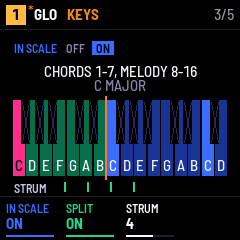
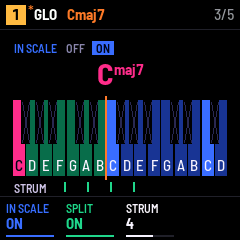
KEYS SPLIT: the chord held named in the header and big on GLO KEYS (Fm7, Csus2, C/E)

Changed region(s): [[0.3792, 0.2625, 0.8458, 0.3792], [0.175, 0.2625, 0.3792, 0.3208], [0.2625, 0.0292, 0.4375, 0.1167]]

diff --git a/app/ui.c b/app/ui.c
@@ -152,6 +152,10 @@ static const char *const SRC_NAME[SRC_N] = {"STEP", "ATLAS", "FLEET", "COLONY", 
 static const char *const T_MODE_NAME[7] = {"C.BERN", "CLUSTERS", "DRUMS", "I.BERN", "DIVIDER", "3 STATES", "MARKOV"};
 static const char *const PATH_NAME[PATH_N] = {"FWD", "REV", "PING-PONG", "SNAKE", "COLUMNS", "SPIRAL", "RANDOM", "XY"};
 static const char *const TONIC_NAME[12] = {"C", "C#", "D", "D#", "E", "F", "F#", "G", "G#", "A", "A#", "B"};
+/* KEYS SPLIT's chord qualities, gen.h CQ_* (after the root's name) */
+static const char *const CHORD_SUFFIX[CQ_N] = {"", "m", "dim", "+", "sus2", "sus4", "7", "maj7", "m7", "m7b5", "dim7",
+                                               "mM7", "+maj7", "7sus4", "7sus2", "maj7sus4", "maj7sus2", "add9",
+                                               "madd9", "sus4add9", "9", "maj9", "m9"};
 static const char *const MODE_NAME[11] = {"CHROM", "MAJOR", "MINOR", "DORIAN", "PHRYG", "LYDIAN", "MIXO", "LOCRIAN",
                                           "HARM MIN", "PENTA", "MIN PENTA"};
 static const char *const QUANT_NAME[3] = {"OFF", "50 %", "100 %"};
@@ -175,7 +179,7 @@ typedef struct { q_step st; uint8_t nlocks; q_lock lk[16]; } q_clip;   /* a step
 
 /* what is on the screen, part by part: a part is drawn again when its view changes */
 typedef struct {
-    struct { int8_t track, domain, page, n, msg, pat, playing, scene, pad, ltrig, itype, punch, badge, bnum, model, dirty, trans; uint8_t bpm, hits, len; } head;   /* badge: REC's
+    struct { int8_t track, domain, page, n, msg, pat, playing, scene, pad, ltrig, itype, punch, badge, bnum, model, dirty, trans, croot, cqual, cbass; uint8_t bpm, hits, len; } head;   /* badge: REC's
                                                                                    state, 1 GRID .. 4 ARM (0 none or ARM's blink off); bnum: NOTES' step */   /* pat: P1..P8 asked; playing: the one playing when it differs, else 0;
                                                                                    pad: a KIT's in EDIT 1..16, else 0;
                                                                                    ltrig: LFO's FREE 1 / TRIG 2, else 0; itype: the insert's, in the page name */
@@ -1942,6 +1946,26 @@ static void chord_glide(void)
     }
 }
 
+/* the chord of the last key struck, while held: its root, CQ_* quality (-1 no name) and bass (-1: the root); 0 none */
+static int held_chord(int *root, int *qual, int *bass)
+{
+    int w, n = 1, k = ui.last_key;
+    uint8_t notes[4];
+    if (k < 0 || ui.key_note[k] < 0)
+        return 0;
+    for (w = 0; w < 7 && WHITE[w] != k; w++) {}
+    if (w == 7 || ui.chord_root[w] < 0)
+        return 0;
+    notes[0] = (uint8_t)ui.key_note[k];
+    for (int i = 0; i < 3; i++)
+        if (ui.chord_note[w][i] >= 0)
+            notes[n++] = (uint8_t)ui.chord_note[w][i];
+    *root = ui.chord_root[w] % 12;
+    *qual = gen_chord_quality(notes, n, ui.chord_root[w]);
+    *bass = notes[0] % 12 != *root ? notes[0] % 12 : -1;
+    return 1;
+}
+
 /* NOTES: the cursor d steps on, looping on LEN */
 static void cursor_move(int d)
 {
@@ -2452,6 +2476,8 @@ static void key_down(int k)
         ui.dirty = 1;
         audio_live_chord(ui.track, notes, n, 2, n > 1 ? w + 1 : 0);
         key_hold(k, notes, n);
+        if (n > 1)
+            ui.chord_root[w] = (int8_t)scale_note(w);
         return;
     } else if (grid_on()) {             /* the white keys are the page's 16 steps */
         if (ui.seldown && !ui.held) {   /* SEL held: the selection, the black keys on it */
@@ -2538,7 +2564,7 @@ static void key_down(int k)
         }
     }
     key_hold(k, notes, n);
-    if (n > 1 && !s)                    /* played live: the black keys can change it while held */
+    if (n > 1)                          /* its name shown; played live, the black keys change it while held */
         ui.chord_root[w] = (int8_t)note;
     ui.last_note[ui.track] = (uint8_t)note;
     if (s && kit()) {
@@ -2558,7 +2584,7 @@ static void key_up(int k)
 {
     int w;
     for (w = 0; w < 5 && BLACK[w] != k; w++) {}
-    if (w < 5 && keys_split())          /* a modifier let go: the chords held change back */
+    if (w < 5 && keys_split() && !notes_on() && !ui.held)   /* a modifier let go: the chords played live change back */
         chord_glide();
     for (w = 0; w < 16 && WHITE[w] != k; w++) {}
     if (w < 16 && ui.punch >> w & 1 && !(ui.latch >> w & 1)) {
@@ -3360,6 +3386,11 @@ static void view_now(q_view *v)
                   plat_ms() < ui.copy_until ? 7 + ui.copy_kind : plat_ms() < ui.trans_until ? 7 + COPY_N :
                   plat_ms() < ui.euclid_until ? 8 + COPY_N : 0;
     v->head.hits = (uint8_t)ui.euclid;
+    {
+        int r, q, b;
+        if (held_chord(&r, &q, &b))
+            v->head.croot = (int8_t)(r + 1), v->head.cqual = (int8_t)q, v->head.cbass = (int8_t)(b + 1);
+    }
     v->head.len = (uint8_t)t->len;
     v->head.trans = (int8_t)ui.transpose;
     v->head.bpm = (uint8_t)ui.p->tempo;
@@ -3612,6 +3643,14 @@ static void draw_head(const q_view *v)
             t[0] = v->head.trans < 0 ? '-' : '+';
             int_text(v->head.trans < 0 ? -v->head.trans : v->head.trans, t + 1);
             cv_text(x + 4, 7, &FONT_B, t, KCOL[3]);
+        }
+    } else if (v->head.croot) {         /* a chord held: its name */
+        x = cv_text(x + 10, 7, &FONT_B, TONIC_NAME[v->head.croot - 1], KCOL[3]);
+        if (v->head.cqual >= 0)
+            x = cv_text(x, 7, &FONT_B, CHORD_SUFFIX[v->head.cqual], KCOL[3]);
+        if (v->head.cbass) {
+            x = cv_text(x, 7, &FONT_B, "/", KCOL[3]);
+            cv_text(x, 7, &FONT_B, TONIC_NAME[v->head.cbass - 1], KCOL[3]);
         }
     } else if (v->head.punch)
         cv_text(x + 10, 7, &FONT_B, PUNCH_NAME[v->head.punch - 1], C_AMB);
@@ -4397,6 +4436,12 @@ void ui_frame(void)
                 glv.mask = SCALE_MASK[ui.p->mode];
                 glv.pos = (int8_t)audio_pos(ui.track);
                 glv.inscale = (uint8_t)keys_in_scale();
+                glv.cname = glv.csuf = glv.cbass = 0;
+                if (pid == P_KEYS && held_chord(&k, &w, &b)) {
+                    glv.cname = TONIC_NAME[k];
+                    glv.csuf = w >= 0 ? CHORD_SUFFIX[w] : "";
+                    glv.cbass = b >= 0 ? TONIC_NAME[b] : 0;
+                }
                 glv.kit = (uint8_t)kit();
                 glv.held = 0;
                 for (k = 0; k < NKEYS; k++) {
@@ -4627,6 +4672,11 @@ int ui_expect(const char *what, int *got)
     else if (!strcmp(what, "click")) *got = ui.p->click;
     else if (!strcmp(what, "keys")) *got = ui.p->keys;
     else if (!strcmp(what, "keynote")) *got = ui.last_note[ui.track];
+    else if (!strcmp(what, "croot") || !strcmp(what, "cqual") || !strcmp(what, "cbass")) {
+        static q_view cv;
+        view_now(&cv);
+        *got = what[1] == 'r' ? cv.head.croot : what[1] == 'q' ? cv.head.cqual : cv.head.cbass;
+    }
     else if (!strncmp(what, "chord_", 6) && ui.last_key >= 0) {   /* the last key's notes, 0 none */
         int i = atoi(what + 6), w;
         for (w = 0; w < 7 && WHITE[w] != ui.last_key; w++) {}

diff --git a/app/scene_glo.c b/app/scene_glo.c
@@ -131,9 +131,22 @@ static void glo_keys(const q_glview *v, int32_t oy)
     static const char *const SAY[3] = {"CHROMATIC KEYBOARD", "SCALE ON EVERY TRACK", "CHORDS 1-7, MELODY 8-16"};
     int split = v->inscale && !v->kit && v->k[1];
     glo_opts("IN SCALE", v->opt[0], v->nopt[0], v->k[0], oy + 14, HM_BLUE[1]);
-    glo_text(120, oy + 42, &FONT_S, SAY[split ? 2 : v->k[0]], GL_INK, 0);
-    if (v->inscale)
-        glo_text(120, oy + 56, &FONT_S, v->title, GL_UI, 0);
+    if (v->cname) {                     /* a chord held: its name, the root big, the quality beside it, "/" and the bass */
+        int32_t w = text_w(&FONT_L, v->cname) + text_w(&FONT_B, v->csuf) + (v->cbass ? text_w(&FONT_L, "/") + text_w(&FONT_L, v->cbass) : 0);
+        int32_t x = 120 - w / 2;
+        glo_text(x, oy + 46, &FONT_L, v->cname, PINK3[1], 2);
+        x += text_w(&FONT_L, v->cname);
+        glo_text(x, oy + 40, &FONT_B, v->csuf, PINK3[1], 2);
+        x += text_w(&FONT_B, v->csuf);
+        if (v->cbass) {
+            glo_text(x, oy + 46, &FONT_L, "/", GL_UI, 2);
+            glo_text(x + text_w(&FONT_L, "/"), oy + 46, &FONT_L, v->cbass, PINK3[1], 2);
+        }
+    } else {
+        glo_text(120, oy + 42, &FONT_S, SAY[split ? 2 : v->k[0]], GL_INK, 0);
+        if (v->inscale)
+            glo_text(120, oy + 56, &FONT_S, v->title, GL_UI, 0);
+    }
     static const uint8_t W[16] = PLAT_WHITE_KEYS;
     int mute = v->inscale || v->kit;    /* the black keys play nothing */
     for (int i = 0; i < 16; i++) {      /* 13.5 px a key */

diff --git a/app/scene.h b/app/scene.h
@@ -54,7 +54,7 @@ void sound_band(int32_t oy);
    FX: the delay's division); notes: the 12 pitch classes' names from C; opt: the option rows' names (SCALE QUANT, CLICK;
    KEYS IN SCALE); tonic, mask (bit n: n semitones above it); inscale: KEYS' white keys play the scale; pos: the track's
    step, -1 stopped; held: SCALE the track's pitch classes held (bit n), KEYS the keys held (bit k, plat.h's numbering);
-   keyn: the MIDI note each white key plays, -1 none; kit: the track is a KIT (the white keys are its pads); hits: FX the note-ons of all tracks; song: SONG's entries, the cursor and the one playing (1..n) */
+   keyn: the MIDI note each white key plays, -1 none; cname: the chord held (KEYS), 0 none; kit: the track is a KIT (the white keys are its pads); hits: FX the note-ons of all tracks; song: SONG's entries, the cursor and the one playing (1..n) */
 enum { GP_TEMPO, GP_SCALE, GP_KEYS, GP_FX, GP_SONG };
 typedef struct {
     uint8_t page;
@@ -68,6 +68,7 @@ typedef struct {
     int8_t pos;
     uint32_t held;
     int8_t keyn[16];
+    const char *cname, *csuf, *cbass;   /* KEYS SPLIT: the chord held, its root, quality and bass (0 none) */
     uint32_t hits;
     struct { int8_t n, cursor, playing, on; q_entry e[Q_SONG]; } song;
 } q_glview;

diff --git a/tests/unit/scene_test.c b/tests/unit/scene_test.c
@@ -1615,6 +1615,20 @@ static void glo_keys_strum(void)    /* STRUM: the ticks under the keyboard sprea
     assert(memcmp(a + 240 * 148, FULL + 240 * 148, 240 * 18 * sizeof *a) != 0);
 }
 
+static void glo_keys_chord_name(void)    /* a chord held: its name, big, over the keyboard */
+{
+    static uint16_t a[240 * 166];
+    gkeys(1);
+    GV.k[1] = 1;
+    glo_frame(&GV, 1000);
+    gfull();
+    memcpy(a, FULL, sizeof a);
+    GV.cname = "C", GV.csuf = "maj7", GV.cbass = "E";
+    glo_frame(&GV, 1040);
+    gfull();
+    assert(memcmp(a + 240 * 26, FULL + 240 * 26, 240 * 38 * sizeof *a) != 0);
+}
+
 static void gsong(int n, int reps)  /* SONG with n entries of reps repeats, scenes cycling */
 {
     greset(GP_SONG);
@@ -1699,6 +1713,7 @@ static void glo_tests(void)
     glo_keys_midi();
     glo_keys_split();
     glo_keys_strum();
+    glo_keys_chord_name();
     glo_fx_note();
     glo_fresh();
     glo_song_empty();

diff --git a/app/docs/MANUAL.md b/app/docs/MANUAL.md
@@ -612,7 +612,9 @@ splits in two. Each of white keys 1–7 plays the chord of its degree of the sca
 third apart (in C major: C, Dm, Em, F, G, Am, B°); white keys 8–16 go on playing one note each, from the tonic an
 octave up, for the melody. SPLIT is per track: a bass on track 1 can stay note by note.
 
-Hold black keys 1–5 while you strike a chord to change it, in the scale; two at once add up:
+Black keys 1–5 change a chord, in the scale: hold them before you strike it, or press them while it sounds, and only
+the notes that differ change (the others go on sounding); let go of a black key and the chord goes back. Two at once
+add up:
 
 | Black key | Name | The chord (from C, in C major) |
 | --- | --- | --- |
@@ -622,6 +624,10 @@ Hold black keys 1–5 while you strike a chord to change it, in the scale; two a
 | 4 | ADD9 | adds the ninth: Cadd9 (with 1: the fifth makes room, four notes at most) |
 | 5 | INV | the root an octave up: C/E |
 
+While you hold a chord, the header names it, and GLO's KEYS page shows the name big: the root, its quality (`m`,
+`dim`, `+`, `7`, `maj7`, `m7`, `m7b5`, `dim7`, `sus2`, `sus4`, `add9`, `9`, `maj9`, `m9`…) and, inverted, `/` and the
+bass (`C/E`). A shape with no name (a cluster of CHROM, some of PENTA) shows its root alone.
+
 STRUM (GLO's KEYS page, 0–7) plays a chord's notes one after the other from the lowest, 1/24 of a step apart at 1,
 half a step at 7, as CADENCE's STRUM. Letting go of the key stops every note of its chord, even those not struck yet.
 
@@ -629,7 +635,7 @@ The chords record as you play them: LIVE and NOTES write the chord and the melod
 (POLY 4 holds a chord and one more note), and the step keeps the STRUM. Disarmed, a chord is the clipboard; IMPROV's
 LISTEN learns its root.
 
-![GLO's KEYS page with SPLIT ON and STRUM 4: white keys 1–7 green for the chords, a bar, 8–16 blue for the melody, the C chord held](img/glo-keys-split.png "SPLIT")
+![GLO's KEYS page with SPLIT ON and STRUM 4: Cmaj7 big over the keyboard and in the header, white keys 1–7 green for the chords, a bar, 8–16 blue for the melody](img/glo-keys-split.png "SPLIT")
 
 **Inspired by** the one-finger chords of home keyboards, such as Casio's Casio Chord: one key, one chord, the other
 hand free for the melody.
